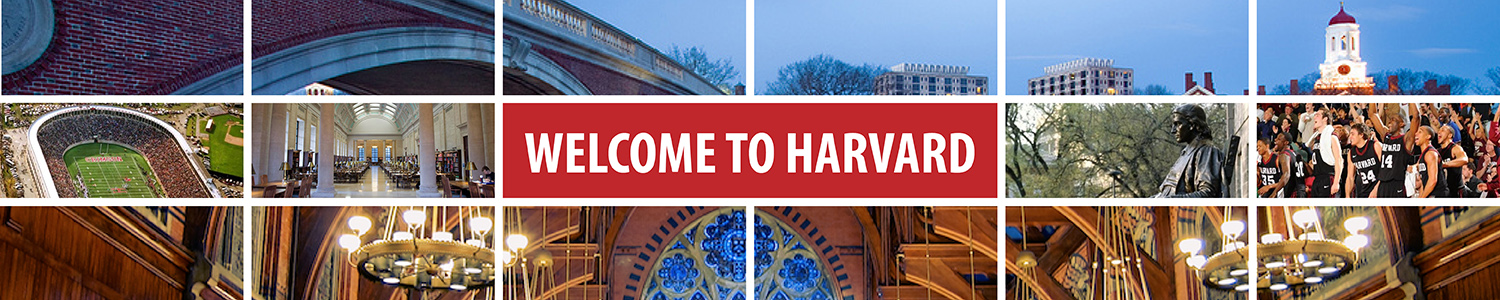
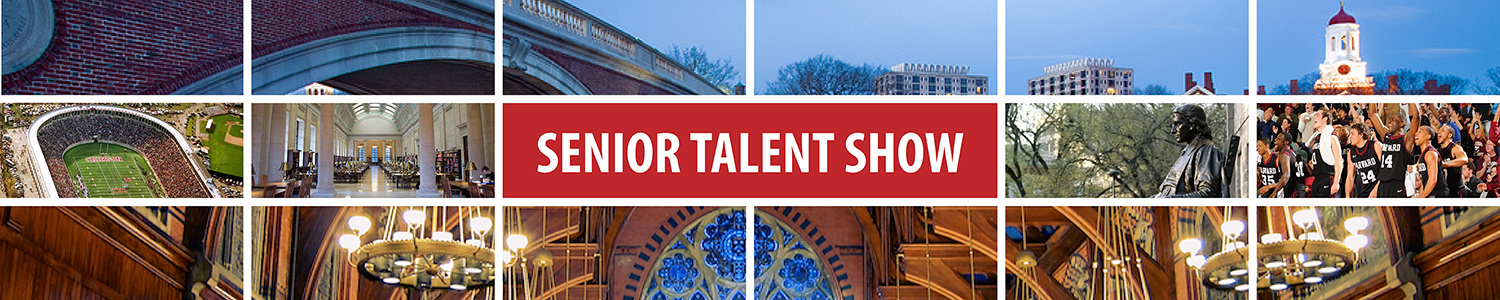
fix a bunch of stuff

Changed region(s): [[0.3373, 0.42, 0.6747, 0.6]]

diff --git a/senior_talentshow/templates_common/common/base.html b/senior_talentshow/templates_common/common/base.html
@@ -17,7 +17,7 @@
 
     <link href="{% static 'common/fontawesome/css/font-awesome.min.css' %}" rel="stylesheet">
 
-    <title>{% block title %}Harvard Freshman Week 2019 | Welcome to Harvard{% endblock %}</title>
+    <title>{% block title %}Senior Talent Show{% endblock %}</title>
 
     <!-- HTML5 shim and Respond.js IE8 support of HTML5 elements and media queries -->
     <!--[if lt IE 9]>
@@ -43,17 +43,6 @@
   <script src="{% static 'common/js/smooth_scroll.js' %}"></script>
   <script src="{% static 'common/js/instafeed.min.js' %}"></script>
   <script src="{% static 'common/js/main.js' %}"></script>
-
-    <script>
-  (function(i,s,o,g,r,a,m){i['GoogleAnalyticsObject']=r;i[r]=i[r]||function(){
-  (i[r].q=i[r].q||[]).push(arguments)},i[r].l=1*new Date();a=s.createElement(o),
-  m=s.getElementsByTagName(o)[0];a.async=1;a.src=g;m.parentNode.insertBefore(a,m)
-  })(window,document,'script','//www.google-analytics.com/analytics.js','ga');
-
-  ga('create', 'UA-6304697-2', 'auto');
-  ga('send', 'pageview');
-
-</script>
   </head>
 
   <body>
@@ -104,20 +93,9 @@
 
           </ul>
             <ul class="nav navbar-nav social-icons pull-right desktop-only">
-            <li>
-              <span class="hashtag">#harvardopeningdays</span>
-            </li>
-              <li>
-                <span class="fa-stack instagram-icon fa-lg">
-                <a href="http://www.instagram.com/crimsonkeysociety" target="_blank">
-                  <i class="fa fa-circle fa-stack-2x"></i>
-                  <i class="fa fa-instagram fa-stack-1x"></i>
-                </a>
-                </span>
-              </li>
               <li>
               <span class="fa-stack facebook-icon fa-lg">
-                <a href="http://www.facebook.com/senior_talentshow" target="_blank">
+                <a href="http://www.facebook.com/harvard16/" target="_blank">
                   <i class="fa fa-circle fa-stack-2x"></i>
                   <i class="fa fa-facebook fa-stack-1x"></i>
                 </a>
@@ -154,7 +132,7 @@
       <div class="col-sm-6">
         <ul class="link-list">
           {% include "common/menu.html" with request=request %}
-          <li><a href="http://www.crimsonkeysociety.org/about/">About the Crimson Key Society</a></li>
+          <li><a href="http://www.harvard2016.com">Harvard Class of 2016</a></li>
         </ul>
       </div>
       <div class="col-sm-6">
@@ -162,12 +140,6 @@
       </div>
   </div>
 
-  <div class="footer-bottom row">
-    <div class="col-xs-12">
-    <img src="{% static 'common/img/cks_logo_white.png' %}" width="20px" height="20px" />
-      Website by the <a href="http://www.crimsonkeysociety.org">Crimson Key Society</a>. Questions? Contact us: <span class="email email-white">crimsonk<span class="nospam">nospam</span>eysociety@gmail.com</span>.
-    </div>
-  </div>
 
   </body>
 </html>

diff --git a/senior_talentshow/templates_common/common/emails/audition_confirm.html b/senior_talentshow/templates_common/common/emails/audition_confirm.html
@@ -10,12 +10,12 @@
     </tr>
     <tr>
         <td class="content-block">
-            Your audition for the Freshman Talent Show will be at <strong>{{ slot.start_time|date:"g:i A" }}</strong> on <strong>{{ slot.start_time|date:"D, n/d" }}</strong> in <strong>{{ slot.location }}</strong>. Please limit your act to roughly 5 minutes. Audition slots are only 10 minutes long, so please arrive early! There's a piano available at the audition site. Groups of up to 4 are permitted. If you have any questions, or to change your audition time, feel free to reply to this email and we'll get back to you promptly.
+            Your audition for the Senior Talent Show will be at <strong>{{ slot.start_time|date:"g:i A" }}</strong> on <strong>{{ slot.start_time|date:"D, n/d" }}</strong> in <strong>{{ slot.location }}</strong>. Please limit your act to roughly 5 minutes. Audition slots are only 10 minutes long, so please arrive early! There's a piano available at the audition site. Groups of up to 4 are permitted. If you have any questions, or to change your audition time, feel free to reply to this email and we'll get back to you promptly.
         </td>
     </tr>
     <tr>
         <td class="content-block">
-            Acts that are chosen to perform in the Freshman Talent Show will be notified by the afternoon of Monday, August 31st. Please reserve the hours of <strong>4:30pm to 8pm</strong> on <strong>Tuesday, September 1st</strong> for the sound check in the event that your act is chosen. The show will run from 8pm to 10pm on Tuesday, September 1st. Please also keep in mind that the Convocation ceremony and the Class of 2019 photo will end at 4:30pm on September 1st.
+            Acts that are chosen to perform in the Senior Talent Show will be notified by the afternoon of Monday, August 31st. Please reserve the hours of <strong>4:30pm to 8pm</strong> on <strong>Tuesday, September 1st</strong> for the sound check in the event that your act is chosen. The show will run from 8pm to 10pm on Tuesday, September 1st. Please also keep in mind that the Convocation ceremony and the Class of 2019 photo will end at 4:30pm on September 1st.
         </td>
     </tr>
     <tr>

diff --git a/senior_talentshow/apps/talentshow/templates/talentshow/sign-up-success.html b/senior_talentshow/apps/talentshow/templates/talentshow/sign-up-success.html
@@ -11,7 +11,7 @@
     <div class="col-md-4">
         <h3 class="module-header">Extra Info</h3>
         <p>Please prepare an act roughly 5 minutes long. Audition slots are only 10 minutes long, so please arrive early!</p>
-        <p>If you have any questions, or to change your audition time, please email us at {% talentshow_email %}.</p>
+        <p>If you have any questions, or to change your audition time, please email us at {% autoescape off %}{% talentshow_email %}{% endautoescape %}.</p>
     </div>
     <div class="col-md-4">
         <h3 class="module-header">Time and Location</h3>

diff --git a/senior_talentshow/templates_common/common/menu.html b/senior_talentshow/templates_common/common/menu.html
@@ -1,3 +1,2 @@
 {% load core_tags static %}
-<li class="{% navactive request 'talentshow-sign-up' %}"><a href="{% url 'talentshow-sign-up' %}">Home</a></li>
-<li class="{% navactive request 'talentshow-sign-up,talentshow-choose-slot' %}"><a href="{% url 'talentshow-sign-up' %}">Talent Show</a></li>
+<li class="{% navactive request 'talentshow-sign-up,talentshow-choose-slot' %}"><a href="{% url 'talentshow-sign-up' %}">Home</a></li>

diff --git a/senior_talentshow/apps/talentshow/templates/talentshow/choose-slot.html b/senior_talentshow/apps/talentshow/templates/talentshow/choose-slot.html
@@ -32,7 +32,7 @@
 
     <div class="col-md-5">
         <h2>None of these times work?</h2>
-        <p>Email us at {% talentshow_email %} and we'll do our best to accomodate you.</p>
+        <p>Email us at {% autoescape off %}{% talentshow_email %}{% end autoescape %} and we'll do our best to accomodate you.</p>
     </div>
 </div>
 

diff --git a/senior_talentshow/static_common/common/js/main.js b/senior_talentshow/static_common/common/js/main.js
@@ -41,7 +41,7 @@ $(function(){
         var data = $form.serializeArray();
         $('.form-error').remove();
         $.ajax({
-            url: '/talent-show/set-reminder/',
+            url: '/set-reminder/',
             data: data,
             type: 'POST',
             success: function(response)

diff --git a/senior_talentshow/settings/base.py b/senior_talentshow/settings/base.py
@@ -42,6 +42,7 @@ THIRD_PARTY_APPS = (
     'localflavor',
     'djrill',
     'djcelery',
+    'kombu.transport.django',
 )
 
 MY_APPS = (
@@ -113,11 +114,13 @@ ADMINS = (
     ('Andrew Raftery', 'andrewraftery@gmail.com'),
 )
 
-EMAIL_BACKEND = "djrill.mail.backends.djrill.DjrillBackend"
+EMAIL_BACKEND = 'django_mailgun.MailgunBackend'
+MAILGUN_ACCESS_KEY = os.environ.get('MAILGUN_ACCESS_KEY')
+MAILGUN_SERVER_NAME = os.environ.get('MAILGUN_SERVER_NAME')
+
 HARVARD_TALENT_EMAIL = 'Harvard Senior Talent Show <andrewraftery@gmail.com>'
 HARVARD_TALENT_EMAIL_ADDRESS = 'andrewraftery@gmail.com'
-DEFAULT_FROM_EMAIL = HARVARD_TALENT_EMAIL
-MANDRILL_API_KEY = os.environ.get('MANDRILL_API_KEY')
+DEFAULT_FROM_EMAIL = HARVARD_TALENT_EMAIL_ADDRESS
 
 ############################################################
 ##### STATIC FILES #########################################
@@ -168,13 +171,7 @@ TWILIO_PHONE_NUMBER = os.environ.get('TWILIO_PHONE_NUMBER')
 TWILIO_ACCOUNT_SID = os.environ.get('TWILIO_ACCOUNT_SID')
 TWILIO_AUTH_TOKEN = os.environ.get('TWILIO_AUTH_TOKEN')
 
-
 CELERY_RESULT_BACKEND='djcelery.backends.database:DatabaseBackend'
-BROKER_URL = "amqp://senior_talentshow:senior_talentshow@localhost:5672/senior_talentshow"
-CELERY_RESULT_DBURI = "postgresql://senior_talentshow:senior_talentshow@localhost/senior_talentshow"
 CELERY_ENABLE_UTC = True
 CELERY_TIMEZONE = TIME_ZONE
 
-# put these two lines at the very bottom of the settings file
-import djcelery
-djcelery.setup_loader()

diff --git a/senior_talentshow/apps/talentshow/forms.py b/senior_talentshow/apps/talentshow/forms.py
@@ -86,7 +86,7 @@ class AuditionForm(forms.ModelForm):
             ),
             Div(
                 Div(
-                    HTML("{% load talentshow_tags %}Groups of up to 4 are permitted. Only one member of a group needs to sign up for an audition. Act should be performance-ready. On the next page, you'll be asked to pick a time slot for your audition. If you have any questions, or to change an existing audition time, please email us at {% talentshow_email %}."),
+                    HTML("{% load talentshow_tags %}Groups of up to 4 are permitted. Only one member of a group needs to sign up for an audition. Act should be performance-ready. On the next page, you'll be asked to pick a time slot for your audition. If you have any questions, or to change an existing audition time, please email us at {% autoescape off %}{% talentshow_email %}{% endautoescape %}."),
                     css_class="col-sm-12 help-text",
                 ),
             ),
@@ -120,7 +120,7 @@ class AuditionReminderForm(forms.ModelForm):
 
     class Meta:
         model = Auditioner
-        fields = ('reminder_text', 'secret')
+        fields = ('reminder_text', 'secret',)
 
 
 class AuditionSignUpReminderForm(forms.ModelForm):

diff --git a/senior_talentshow/apps/talentshow/views.py b/senior_talentshow/apps/talentshow/views.py
@@ -19,6 +19,7 @@ from talentshow.models import Auditioner, AuditionSession, AuditionSignUpReminde
 class SetAuditionReminderView(AjaxFormViewMixin, UpdateView):
     form = AuditionReminderForm
     model = Auditioner
+    fields = '__all__'
 
     def valid_response(self, form):
         response = super(SetAuditionReminderView, self).valid_response(form)
@@ -133,7 +134,7 @@ class ChooseAuditionSlotView(FormView):
 
         send_email.delay(
             template_name='audition_confirm',
-            subject='Talent Show Audition Confirmation',
+            subject='Senior Talent Show Audition Confirmation',
             from_email=settings.HARVARD_TALENT_EMAIL,
             recipients=[slot.auditioner.email],
             context={'slot': slot}

diff --git a/senior_talentshow/settings/production.py b/senior_talentshow/settings/production.py
@@ -20,4 +20,9 @@ STATIC_URL = '/static/'
 
 SETTINGS_MODULE = 'senior_talentshow.settings.production'
 
+BROKER_URL = "amqp://senior_talentshow:senior_talentshow@localhost:5672/senior_talentshow"
 CELERY_RESULT_DBURI = "postgresql://senior_talentshow:senior_talentshow@localhost/senior_talentshow"
+
+# put these two lines at the very bottom of the settings file
+import djcelery
+djcelery.setup_loader()

diff --git a/senior_talentshow/settings/development.py b/senior_talentshow/settings/development.py
@@ -25,3 +25,10 @@ DEBUG = True
 TEMPLATE_DEBUG = True
 
 SETTINGS_MODULE = 'senior_talentshow.settings.development'
+
+CELERY_RESULT_DBURI = "postgresql://senior_talentshow:password@localhost/senior_talentshow"
+BROKER_URL = 'django://'
+
+# put these two lines at the very bottom of the settings file
+import djcelery
+djcelery.setup_loader()

diff --git a/senior_talentshow/apps/talentshow/models.py b/senior_talentshow/apps/talentshow/models.py
@@ -136,3 +136,4 @@ class AuditionSignUpReminder(models.Model):
     email = models.EmailField(max_length=254, unique=True)
     created_at = models.DateTimeField(auto_now_add=True, blank=True)
 
+
